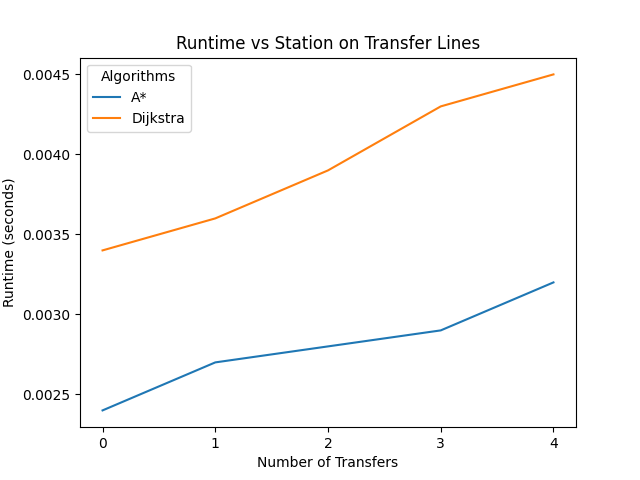
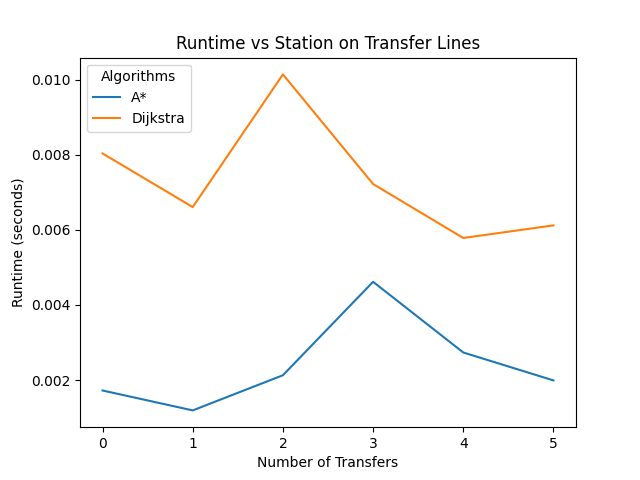
fixed transfer check

diff --git a/Lab 4/Part 3/Experiment_Suite_2.py b/Lab 4/Part 3/Experiment_Suite_2.py
@@ -12,12 +12,31 @@ def main():
     lines = subway_graph[2]
     transfer = subway_graph[3]
     heuristics = heuristic(station_list)
-    all_pairs_test(graph, station_list, heuristics)
-    same_line_test(graph, heuristics, lines, 9) # 9 is arbitrarily chosen
-    adj_line(2, 3, lines) # test case, evaluates to True
-    adj_line_test(graph, heuristics, lines, 3) # since it is adjacent to line 2
-    transfer(lines, 193) # test case, evaluates to 4
-    transfer_lines_test(graph, heuristics, lines, 5, 193) # line 5 is one of the lines station 193 is on
+
+    # # test 1: all-pairs
+    # all_pairs_test(graph, station_list, heuristics)
+
+    # # test 2: same line
+    # same_line_test(graph, heuristics, lines, 9) # 9 is arbitrarily chosen
+
+    # # test 3: adjacent lines
+    # adj_line(2, 3, lines) # test case, evaluates to True
+    # adj_line_test(graph, heuristics, lines, 3) # since it is adjacent to line 2
+
+    # test 4: multiple transfers
+    zero_transfer = a_star_new(subway_graph[0], 294, 138, heuristics[138]) # test case, returns 0
+    num_of_transfers(zero_transfer[1], transfer)
+    one_transfer = a_star_new(subway_graph[0], 1, 176, heuristics[176]) # test case, returns 1
+    num_of_transfers(one_transfer[1], transfer)
+    two_transfer = a_star_new(subway_graph[0], 36, 120, heuristics[120]) # test case, returns 2
+    num_of_transfers(two_transfer[1], transfer)
+    three_transfer = a_star_new(subway_graph[0], 181, 2, heuristics[2]) # test case, returns 3
+    num_of_transfers(three_transfer[1], transfer)
+    four_transfer = a_star_new(subway_graph[0], 137, 148, heuristics[148]) # test case, returns 4
+    num_of_transfers(four_transfer[1], transfer)
+    five_transfer = a_star_new(subway_graph[0], 19, 2, heuristics[2]) # test case, returns 5
+    num_of_transfers(five_transfer[1], transfer)
+    transfer_lines_test(subway_graph[0], heuristics)
 
 # all pairs of A*
 def all_pairs_a_star(graph, station, heuristic_dict):
@@ -46,28 +65,15 @@ def adj_line(lineOne, lineTwo, lines):
     return False
 
 # on transfer lines, counting number of transfers
-def transfer(lines, station_num):
-    j = station_num
-    counter = 0
-    for i in lines.keys():
-        if j in lines.get(i):
-            counter += 1
-    return counter
-
 def num_of_transfers(path, transfer):
-    counter = -1 # offset to account for the line it is on initially
-    line_num = 0 # to keep track of which line it is on 
-
+    line_num = set()
     for i in range(len(path) - 1):
         station1 = path[i]
         station2 = path[i + 1]
-        for j in transfer:
-            if (((station1 == int(transfer[j][0])) or (station2 == int(transfer[j][0]))) and ((station2 == int(transfer[j][1])) or (station1 == int(transfer[j][1])))):
-                if (int(transfer[j][2])) != line_num:
-                    counter += 1
-                line_num = int(transfer[j][2])
-                break
-    return counter
+        for j in range(len(transfer)):
+            if ((station1 == transfer[j][0]) and (station2 == transfer[j][1])) or ((station1 == transfer[j][1]) and (station2 == transfer[j][0])):
+                line_num.add(transfer[j][2])
+    return len(line_num)
 
 # tests
 def all_pairs_test(graph, station, heuristic_dict):
@@ -150,34 +156,33 @@ def adj_line_test(graph, heuristic_dict, lines, line_num):
     plot.title("Runtime vs Station on Adjacent Lines")
     plot.show()
 
-def transfer_lines_test(graph, heuristic_dict, lines, line_num, station_num):
-    start_station = station_num
-    transfers = 5
-    stations_visited = random.sample(list(lines[line_num]), transfers)
+def transfer_lines_test(graph, heuristic_dict):
+    start_node = [294, 1, 36, 181, 137, 19] # from test cases
+    end_node = [138, 176, 120, 2, 148, 2] # from test cases
 
     a_star_time = []
     dijkstra_time = []
     a_star_sum = 0
     dijkstra_sum = 0
 
-    for n in stations_visited:
+    for i in range(len(start_node)):
         a_star_sum, dijkstra_sum = 0, 0
 
         start_time = timeit.default_timer()
-        a_star(graph, start_station, n, heuristic_dict[n])
+        a_star(graph, start_node[i], end_node[i], heuristic_dict[end_node[i]])
         end_time = timeit.default_timer()
         a_star_sum += (end_time - start_time)
 
         start_time = timeit.default_timer()
-        dijkstra(graph, start_station)
+        dijkstra(graph, start_node[i])
         end_time = timeit.default_timer()
         dijkstra_sum += (end_time - start_time)
 
         a_star_time.append(a_star_sum)
         dijkstra_time.append(dijkstra_sum)
 
-    plot.plot([str(i) for i in range(transfers)], a_star_time, label = 'A*')
-    plot.plot([str(i) for i in range(transfers)], dijkstra_time, label = 'Dijkstra')
+    plot.plot([str(i) for i in range(len(start_node))], a_star_time, label = 'A*')
+    plot.plot([str(i) for i in range(len(start_node))], dijkstra_time, label = 'Dijkstra')
     plot.legend(loc = 'upper left', title = 'Algorithms', fontsize = 10)
     plot.xlabel('Number of Transfers')
     plot.ylabel('Runtime (seconds)')

diff --git a/Lab 4/Part 3/algorithms.py b/Lab 4/Part 3/algorithms.py
@@ -1,7 +1,5 @@
 import min_heap
 
-from final_project_part1 import *
-
 def total_cost(h, dist, node_cost):
     cost = {}
     cost_order = []
@@ -19,8 +17,37 @@ def total_cost(h, dist, node_cost):
 
     return cost_order
 
-# using Dijkstra's with an addition of the heuristic 
 def a_star(G, s, d, h):
+    pred = {}
+    dist = {}
+    Q = min_heap.MinHeap([])
+    nodes = list(G.adj.keys())
+
+    for node in nodes:
+        Q.insert(min_heap.Element(node, float("inf")))
+        dist[node] = float("inf")
+    Q.decrease_key(s, 0)
+
+    while not Q.is_empty():
+        current_element = Q.extract_min()
+        current_node = current_element.value
+        dist[current_node] = current_element.key
+
+        # case where node being searched is starting node
+        if current_node == d:
+            break
+
+        node_path = total_cost(h, dist, G.adj[current_node])
+        for neighbour in node_path:
+            if dist[current_node] + G.w(current_node, neighbour) < dist[neighbour]:
+                Q.decrease_key(neighbour, dist[current_node] + G.w(current_node, neighbour))
+                dist[neighbour] = dist[current_node] + G.w(current_node, neighbour)
+                pred[neighbour] = current_node
+
+    return dist
+
+# using Dijkstra's with an addition of the heuristic 
+def a_star_new(G, s, d, h):
     pred = {}
     dist = {}
     Q = min_heap.MinHeap([])

diff --git a/Lab 4/Part 3/subway_map.py b/Lab 4/Part 3/subway_map.py
@@ -55,7 +55,6 @@ def create():
 
     station_list = {}
     lines = {}
-    transfer = []
     stations = csv.reader(file2)
     next(stations, None) #skips header
     for row in stations:
@@ -63,6 +62,7 @@ def create():
         station_list[station_id] = row
     file2.close()
 
+    transfer = []
     connections = csv.reader(file1)
     next(connections, None)
 
@@ -76,7 +76,7 @@ def create():
         station1 = station_list[int(connect[0])]
         station2 = station_list[int(connect[1])]
         line = int(connect[2])
-        transfer.append([station1, station2, line])
+        transfer.append([int(connect[0]), int(connect[1]), int(connect[2])])
         if line not in lines:
             lines[line] = set()
         lines[line].add(int(connect[0]))
